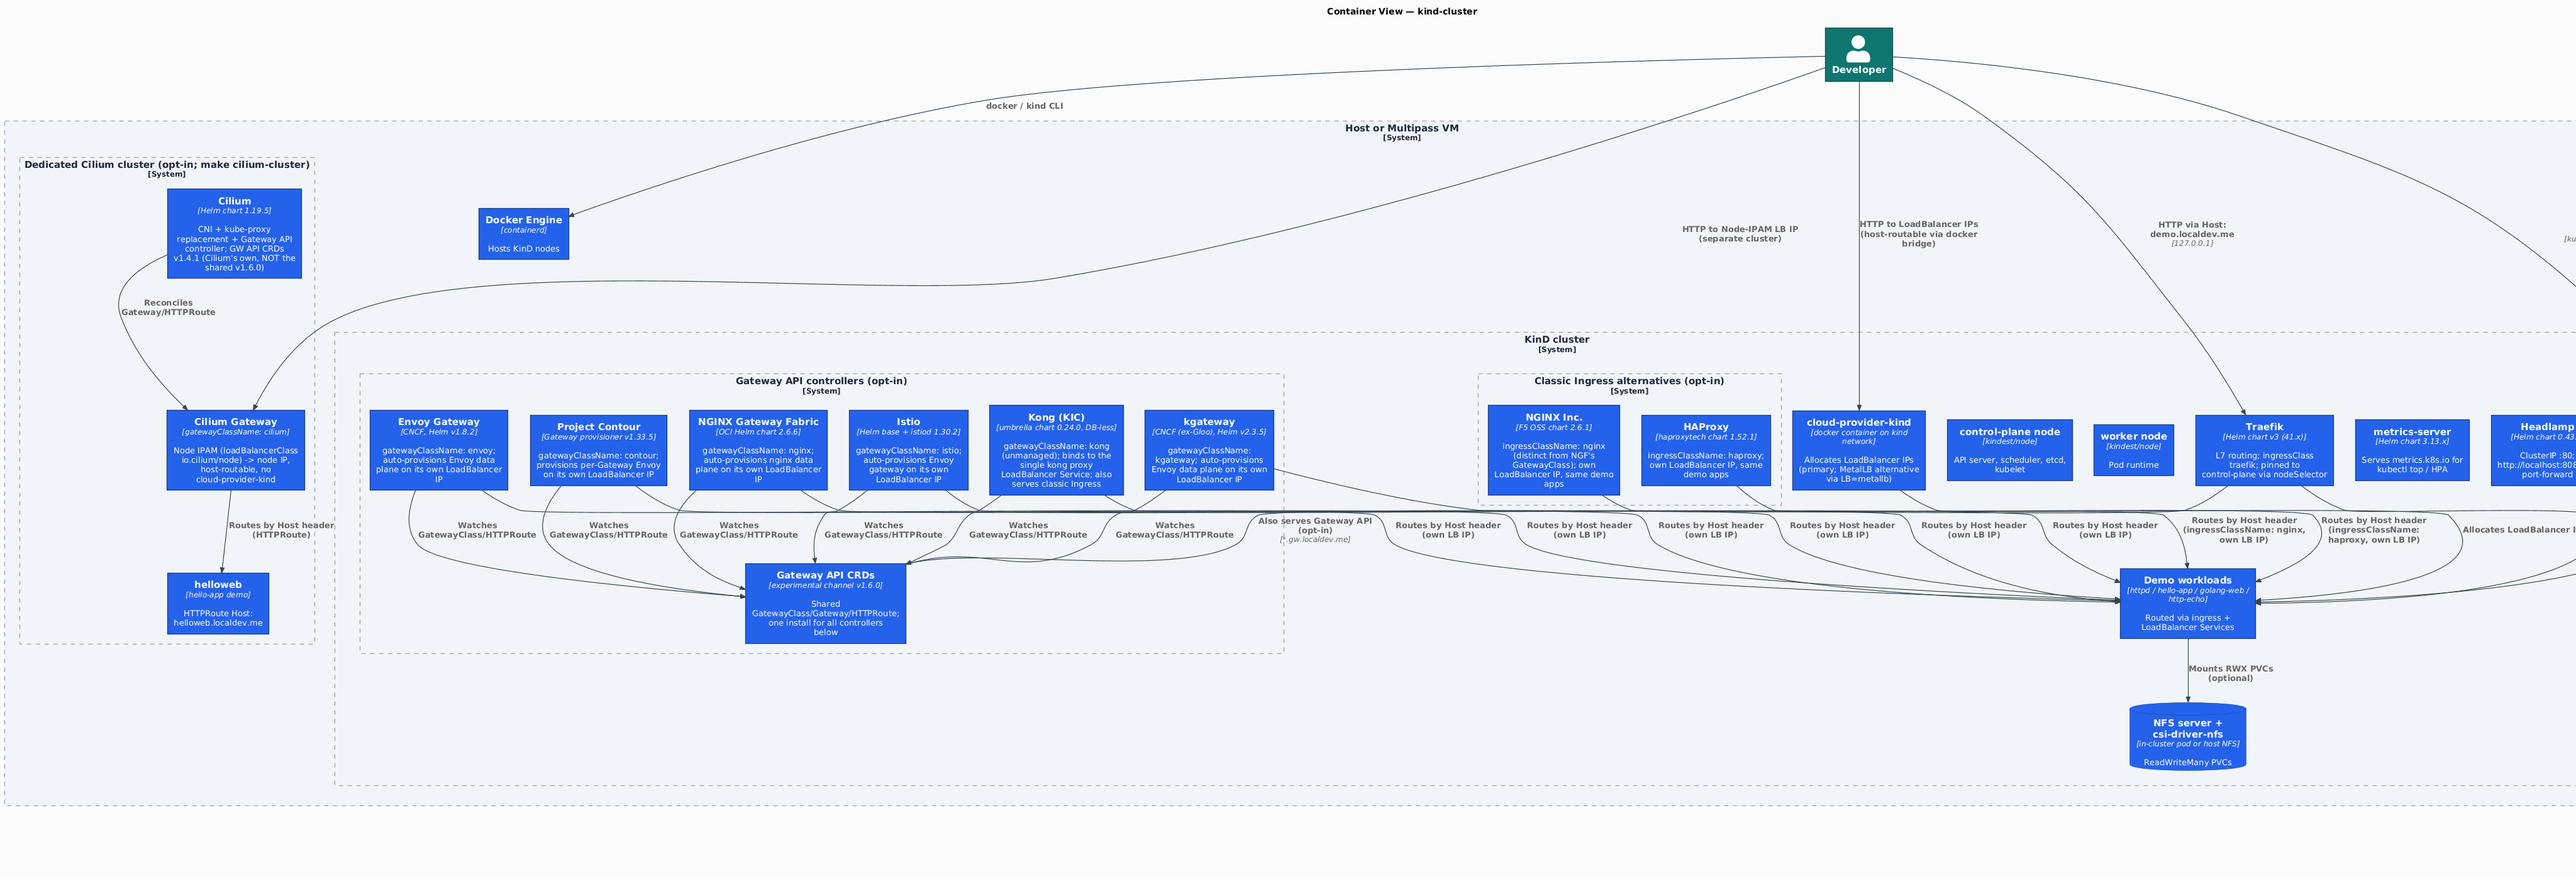
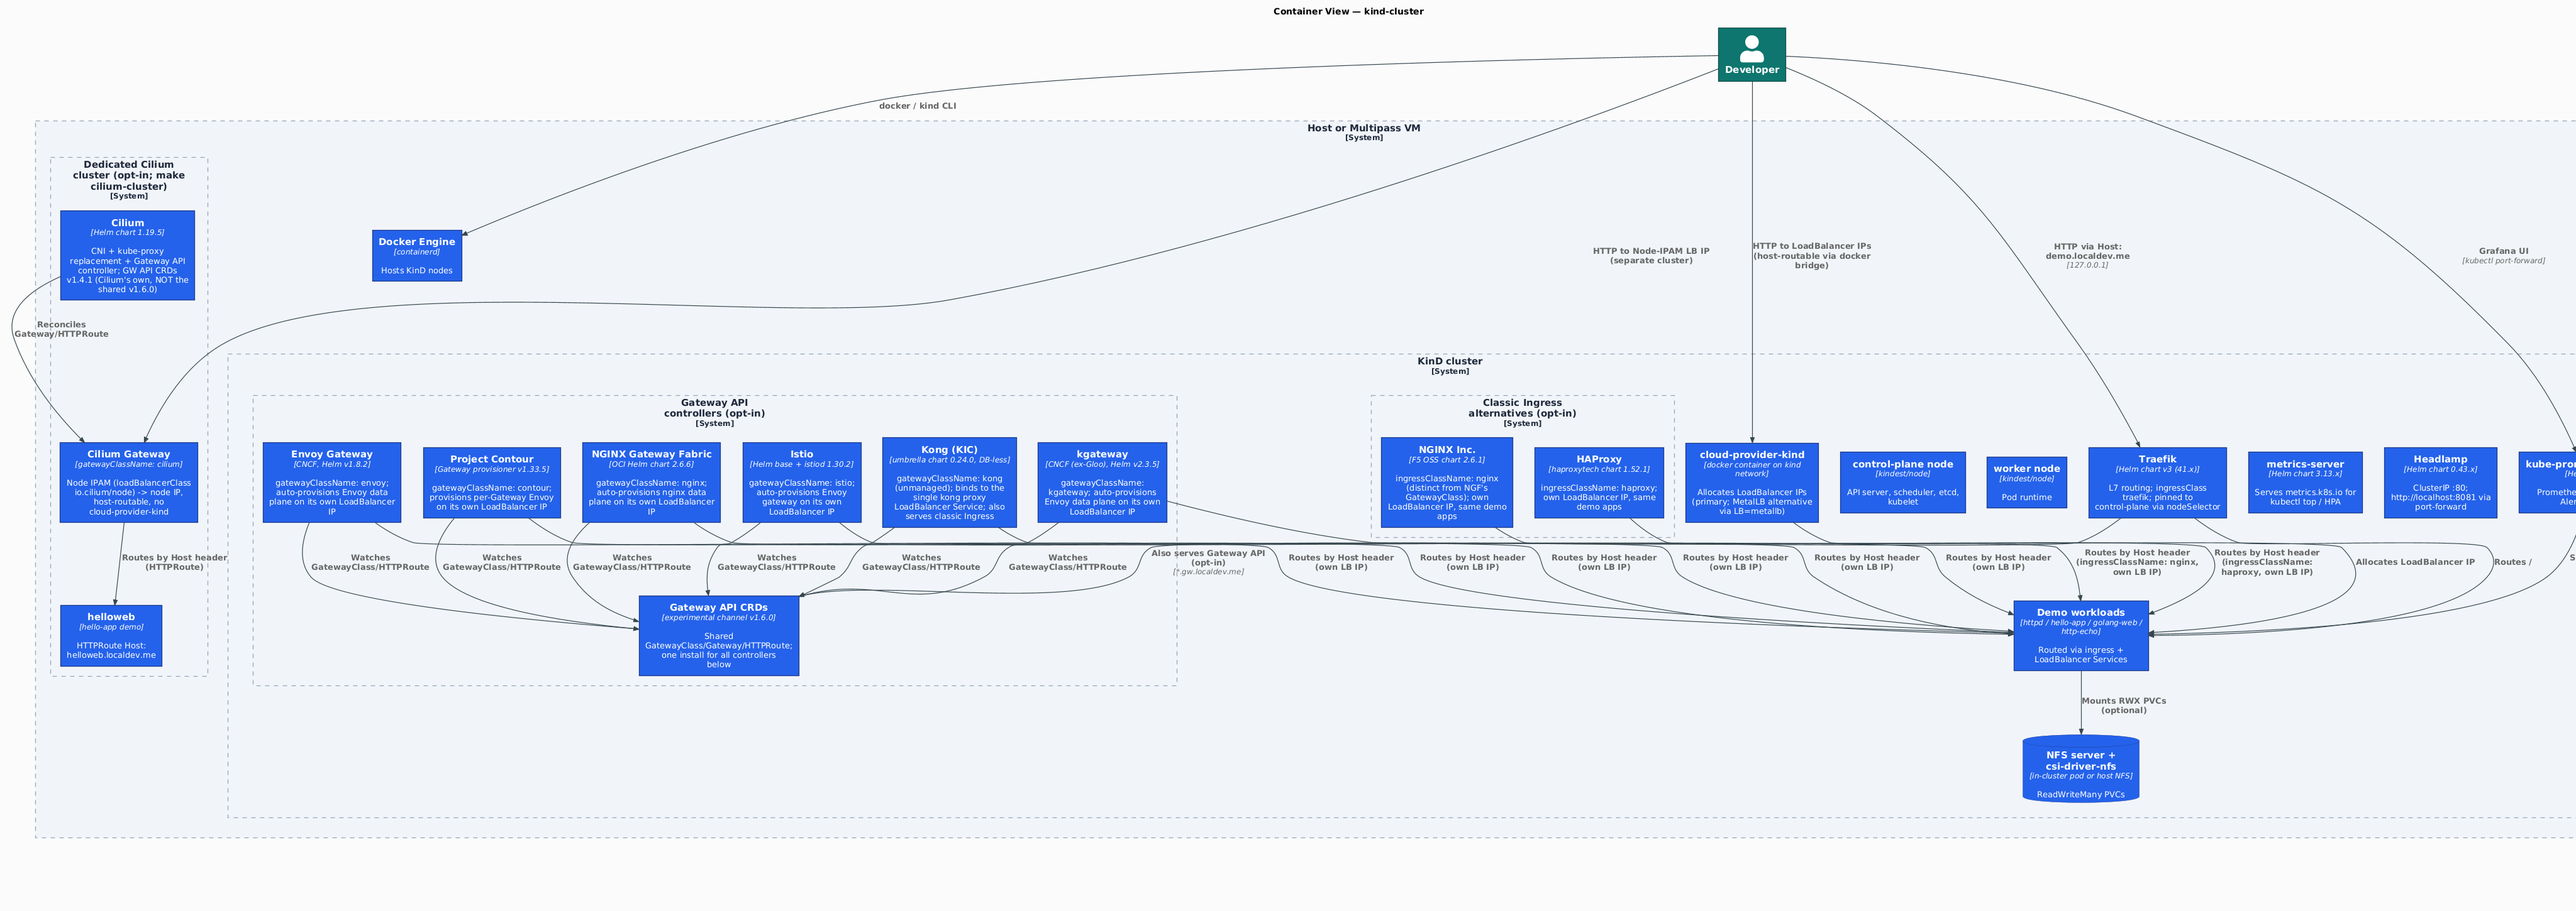
fix(diagrams): use bundled C4 stdlib and gate PlantUML warning boxes
PlantUML 1.2026.10 warns on preprocessor variables declared without '$'
and draws the warning into the diagram. The raw-URL C4-PlantUML v2.14.0
include (also master) declares NEW_C4_STYLE, ROUNDED_STYLE and
NO_LAY_ROTATE without '$', so every C4 PNG gained a yellow warning banner.
PlantUML's bundled C4 stdlib (also 2.14.0) was migrated to '$'.

- switch the three C4 includes to the bundled form, which also removes the
  network fetch (and its HTTP 429 retry loop) from every render
- drop the now-dead C4-PlantUML regex manager; C4 moves with PLANTUML_VERSION
- add diagrams-warnings (run by diagrams-check): renders every source to
  SVG and fails on a PlantUML warning box. RED-proven against the raw-URL
  include (3 warnings reported), green on 5 of 5 diagrams after the fix
- regenerate the PNGs with plantuml 1.2026.10

diff --git a/CLAUDE.md b/CLAUDE.md
@@ -144,7 +144,7 @@ No Go modules; no package manager lockfiles.
 - **`ACT_UBUNTU_VERSION := act-24.04` uses the floating (not dated) catthehacker tag** — accepted because `act` is local-dev-only (`make ci-run`, never CI), so byte-level reproducibility is low-stakes, and the tag is intentionally coupled to `runs-on: ubuntu-24.04` (LTS cadence). Renovate tracks it via `versioning=loose`.
 - **`renovate.json` sets `platformAutomerge: false` ON PURPOSE — do NOT "fix" it to `true`.** `main` requires the `ci-pass` status check (Ruleset + classic protection, `strict: true`). With `platformAutomerge: true`, GitHub native auto-merge can complete the merge in the ~1s window *before* the CI check registers — the registration race — landing a RED bump on `main` (this exact repo hit it: PRs #92/#99 merged red with zero required checks, then #101 merged red via the race even after `ci-pass` was made required, 2026-06-13). `false` makes Renovate merge via its own later run after re-confirming green. A `/project-review` / `/renovate` agent may flag `false` as a "deviation from the base template" — it is the documented race-safe choice for a required-check repo, not a deviation (see the `/renovate` skill §"Automerge is only as safe as the REQUIRED status checks").
 - **`CLOUD_PROVIDER_KIND_VERSION` is Renovate-tracked via `datasource=docker depName=registry.k8s.io/cloud-provider-kind/cloud-controller-manager` (the CONTAINER IMAGE), NOT `github-releases` — do NOT switch it back.** The value is consumed only as a `docker run …:v$(VERSION)` tag, and CPK's image reaches `registry.k8s.io` via a manual kpromo promotion PR to `kubernetes/k8s.io` that lags the GitHub release by hours-to-days. A `github-releases` datasource (the prior pin) proposed v0.11.0 the day it was tagged (2026-06-24) while the image was unpublished, breaking e2e at `docker run` (`manifest unknown`) before any LB IP — Renovate PR #152. Renovate proposes the next bump only once the matching image tag is promoted. (Same datasource-vs-sink rule as the `/renovate` skill's "track the CONSUMED SINK" section.)
-- **Diagram renderer bumps need a manual PNG regen (runbook).** Renovate tracks the C4-PlantUML `!include` version in `docs/diagrams/*.puml` and `PLANTUML_VERSION` in the Makefile. A bump that changes the render **fails the `diagrams-check` gate**, so the PR can't auto-merge — a `packageRule` in `renovate.json` (matchDepNames `plantuml-stdlib/C4-PlantUML` + `plantuml/plantuml`) sets `automerge: false` and labels it `needs-diagram-regen`. To finish such a PR: check out the branch, run `make diagrams`, and commit the regenerated `docs/diagrams/out/*.png`, then let CI go green and merge.
+- **Diagram renderer bumps need a manual PNG regen (runbook).** Renovate tracks `PLANTUML_VERSION` in the Makefile. The C4 library is PlantUML's **bundled stdlib** (`!include <C4/C4_Container>` etc.), so its version moves with the image — there is no separate C4-PlantUML pin or Renovate manager. Do NOT switch back to a `raw.githubusercontent.com/plantuml-stdlib/C4-PlantUML/vX/...` include: from PlantUML 1.2026.10 the un-migrated upstream C4 (v2.14.0 and `master`) declares `NEW_C4_STYLE`/`ROUNDED_STYLE`/`NO_LAY_ROTATE` without `$`, and PlantUML draws a deprecation-warning box into every C4 PNG (the bundled copy was migrated to `$`; PR #367). A bump that changes the render **fails the `diagrams-check` gate**, so the PR can't auto-merge — a `packageRule` in `renovate.json` (matchDepNames `plantuml/plantuml`) sets `automerge: false` and labels it `needs-diagram-regen`. To finish such a PR: check out the branch, run `make diagrams`, and commit the regenerated `docs/diagrams/out/*.png`, then let CI go green and merge. `diagrams-check` also runs `diagrams-warnings`, which renders every source to SVG and fails if PlantUML drew a warning box into any diagram — so a renderer bump that starts warning cannot be "finished" by just committing the new PNGs.
 - **Cilium bumps need a coupled CRD re-check (runbook).** Renovate tracks `CILIUM_VERSION` in `scripts/kind-cilium-cluster.sh` (`datasource=helm depName=cilium`), but `CILIUM_GATEWAY_API_VERSION` is intentionally **untracked and coupled to it** — the Gateway API CRD version Cilium's minor *requires*. A `packageRule` in `renovate.json` (`matchDepNames: ["cilium"]`) therefore sets `automerge: false`, `minimumReleaseAge: 3 days`, and labels the PR `needs-cilium-crd-recheck`. To finish such a PR: (1) read the target minor's [upgrade notes](https://docs.cilium.io/en/stable/operations/upgrade/) for the Gateway API minimum; (2) set `CILIUM_GATEWAY_API_VERSION` **on the same branch**; (3) `make cilium-cluster && make cilium-cluster-destroy` locally; (4) `gh workflow run gateway-cilium.yml --ref <branch>` and require `gh run view <id> --json conclusion` == `success`. **The PR's own `ci-pass` does NOT exercise the Cilium cluster** — `gateway-cilium.yml` has no `pull_request` trigger and `ci.yml`'s `e2e`/`docker` are tag-gated, so no PR check ever stands up a cluster (this is why PR #242's half-bump merged green and reddened `main` for 10 days; fixed in PR #256).
 - **`tls-flow.puml` and `gateway-coexistence.puml` are intentionally PlantUML, not inline Mermaid.** The `/architecture-diagrams` skill mandates Mermaid for non-C4 sequence/flow diagrams, but these two are kept as PlantUML PNGs on purpose — they share the modern-flat C4 skinparam theme with the C4 set for one coherent, `<img width>`-controllable diagram family, and they render via the same pinned `plantuml/plantuml` image + `diagrams-check` gate. This is a documented exception to the Mermaid-for-non-C4 rule.
 - **Operator tunables are documented in a committed `.env.example`** (KIND_CLUSTER_NAME, LB, REGISTRY_PORT, INGRESS_HTTP_PORT/INGRESS_HTTPS_PORT, HEADLAMP_LOCAL_PORT, NFS_SERVER/NFS_PATH, VM NAME/CPUS/MEMORY/DISK, plus optional POLL_ATTEMPTS/POLL_INTERVAL). The Makefile `-include .env` (gitignored local override) before its `?=` defaults, and a `check-env` gate (first prereq of `static-check`) fails if `.env.example` goes missing.
